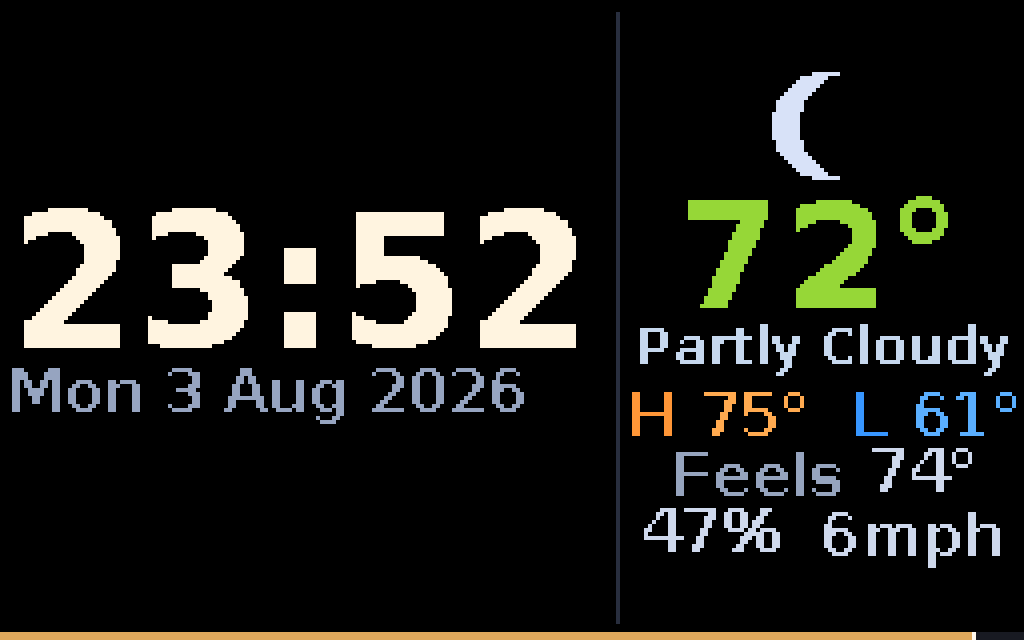
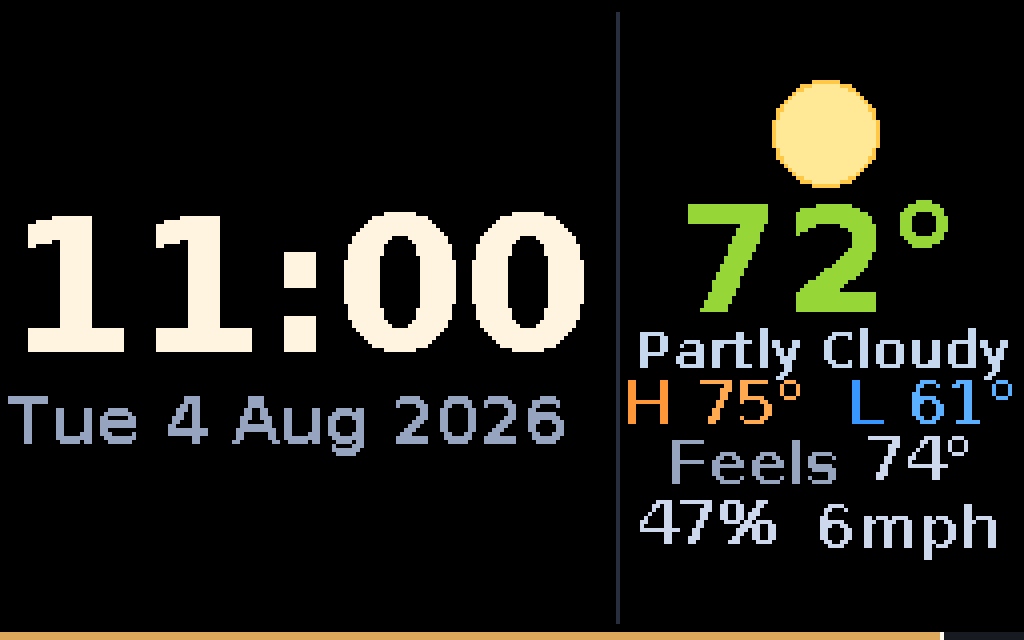
2.10.12-beta.10 — Weather & Dashboard convert to on-device ops (LCD)
Both redraw their tall-panel (H>=96) scene as ops instead of a pixel frame, gated on
canvas.can_gtext:
- weather: gradient sky + sun/moon disc + cloud puffs + rain/snow/lightning as
  gradient/circle/line/pixel ops; the info-panel scrim via canvas.blur; all text as gtext
  (city, big colored temp, condition, H/L, feels, humidity/wind, 3-cell forecast strip).
- dashboard: centered clock+date gtext group, divider line, weather column (sun/moon disc,
  warmth-ramped temp, "Partly Cloudy", H/L, feels, humidity/wind), seconds bar as rect ops.

~330-byte opsb batch, streams at ~1 ms/frame. LED renders byte-identical (verified 4x each).
Verified across day/night/clear/pcloudy/cloudy/rain via the offline gtext simulation; gallery
tiles regenerated. 4703 tests pass.

diff --git a/apps/weather/app.py b/apps/weather/app.py
@@ -722,6 +722,172 @@ def _cv_num(v, unit):
     return int(round(f))
 
 
+def _cv_weather_gtext(canvas, wx, unit, show_city, night, sky, frame):
+    """The weather sky scene as on-device ops + gtext instead of a pushed pixel frame: a dark
+    sky gradient, a warm sun (day) or crescent moon + colored stars (night), cloud-shaped puffs
+    and rain/snow, a blurred info-column scrim, then the same tall info column (city, big temp,
+    condition, H/L, feels, humidity/wind) over a bottom forecast strip. The ops twin of the
+    H>=96 PIL layout below — every position/size/color mirrors it, so it fills the 1280x800 LCD
+    wall at native resolution and previews at 256x160 the same way the pixel path does."""
+    import math
+    from datetime import datetime as _dt
+
+    W, H = canvas.width, canvas.height
+    deg = '\N{DEGREE SIGN}'
+
+    # --- the sky: a dark vertical gradient (a whisper of dusk-blue by day, deep navy by night)
+    # under the celestial scene — kept dark enough that the sun/moon/stars and the outlined info
+    # text read exactly as they do over the LED path's black panel.
+    if night:
+        top_sky, bot_sky = (8, 10, 22), (1, 2, 6)
+    else:
+        top_sky, bot_sky = (16, 26, 46), (3, 6, 12)
+    canvas.gradient(0, 0, W, H, top_sky, bot_sky, 'v')
+
+    def _sky_at(y):                                     # the gradient's own color at a row
+        r = max(0.0, min(1.0, y / max(1, H - 1)))
+        return tuple(int(top_sky[k] + (bot_sky[k] - top_sky[k]) * r) for k in range(3))
+
+    # --- celestial: a crisp sun (day) or moon + colored stars (night); same geometry as PIL ----
+    icx, icy, ir = W - int(H * 0.42) - 1, int(H * 0.40), max(4, int(H * 0.26))
+    if night:
+        stars = [(0.06, 0.18, (200, 210, 255)), (0.16, 0.42, (255, 240, 200)),
+                 (0.30, 0.12, (180, 220, 255)), (0.40, 0.55, (255, 220, 220)),
+                 (0.52, 0.24, (210, 235, 255)), (0.63, 0.10, (255, 245, 210))]
+        for i, (fx, fy, col) in enumerate(stars):
+            if (frame // 7 + i) % 4:
+                canvas.pixel(int(W * fx), int(H * fy), col)
+        if sky in ('clear', 'pcloudy'):
+            canvas.circle(icx, icy, ir, color=(232, 236, 250), fill=True)
+            # the crescent: an offset disc carves the shadow — the local sky tone (black on the
+            # LED's flat panel; the gradient's own color here) so the cut reads seamless
+            canvas.circle(icx + int(ir * 0.55), icy - int(ir * 0.2), ir,
+                          color=_sky_at(icy), fill=True)
+    else:
+        if sky in ('clear', 'pcloudy'):
+            canvas.circle(icx, icy, ir, color=(255, 210, 70), fill=True)
+            canvas.circle(icx, icy, max(1, ir - 2), color=(255, 226, 120), fill=True)
+
+    # --- clouds: one resting by the sun/moon, one drifting across — three overlapping discs ----
+    if sky in _CV_CLOUDY:
+        dark = sky in ('storm', 'hail')
+        cc = (70, 74, 88) if dark else (150, 156, 172)
+
+        def _puff(px, py, s):
+            for dx, dy, rr in ((0, 0, s), (int(s * 0.9), 4, int(s * 0.78)),
+                               (-int(s * 0.9), 3, int(s * 0.72))):
+                canvas.circle(int(px + dx), int(py + dy), max(2, rr), color=cc, fill=True)
+
+        _puff(icx - int(W * 0.1), icy, ir)                       # the cloud beside the sun/moon
+        cx = (frame * 0.4) % (W + ir * 6) - ir * 3               # a smaller cloud drifting across
+        _puff(cx, H * 0.28, max(3, int(ir * 0.62)))
+
+    # --- precipitation ----------------------------------------------------------
+    if sky in _CV_RAIN:
+        for i in range(_CV_RAIN[sky]):
+            x = (i * 53 + 7) % W
+            y = int(H * 0.30) + (frame * 3 + i * 11) % max(1, int(H * 0.7))
+            canvas.line(x, y, x - 1, min(H - 1, y + 3), color=(120, 170, 255))
+    elif sky in _CV_SNOW:
+        for i in range(_CV_SNOW[sky]):
+            x = (i * 41 + 5 + int(2 * math.sin(frame * 0.15 + i))) % W
+            y = int(H * 0.28) + (frame + i * 9) % max(1, int(H * 0.72))
+            canvas.pixel(x, y, (238, 244, 255))
+    if sky in ('storm', 'hail') and frame % 22 < 2:
+        bx = int(W * 0.3)
+        canvas.polyline([(bx, int(H * 0.3)), (bx - 3, int(H * 0.55)), (bx + 2, int(H * 0.55)),
+                         (bx - 2, int(H * 0.8))], color=(255, 255, 170))
+
+    # --- the info column + forecast strip, over a soft scrim (the on-device version of the PIL
+    # GaussianBlur darken). The scene must never crowd the text, so dim the info column + forecast
+    # strip toward the dark sky — the app "blacks out the info column", and an intruding cloud
+    # vanishes behind it — then a box blur feathers the dimmed panels into the bright scene.
+    pad = 4
+    left_w = int(W * 0.60)
+    strip_h = max(16, int(H * 0.13))
+    fy = H - strip_h                                    # the forecast strip's top
+    blur_r = max(2, int(H * 0.05))
+    dim_top = tuple(int(c * 0.45) for c in top_sky)
+    dim_bot = tuple(int(c * 0.45) for c in bot_sky)
+    canvas.gradient(0, 0, left_w, H, dim_top, dim_bot, 'v')             # dim the left info column
+    canvas.rect(0, fy - 2, W, H - (fy - 2), color=dim_bot, fill=True)   # dim the forecast strip
+    canvas.blur(0, 0, min(W, left_w + 2 * blur_r), fy - 2, blur_r)      # feather the column edge
+    sb = max(0, fy - 2 - 2 * blur_r)
+    canvas.blur(0, sb, W, H - sb, blur_r)                               # feather the strip edge
+    colw = left_w - 2 * pad
+
+    name_size = max(9, int(H * 0.095))
+    temp_size = max(16, int(H * 0.26))
+    cond_size = max(9, int(H * 0.11))
+    info_size = max(8, int(H * 0.085))
+
+    temp = _cv_num(wx.get('temp_f'), unit)
+    hi, lo = _cv_num(wx.get('hi_f'), unit), _cv_num(wx.get('lo_f'), unit)
+    word = _CV_SKY_WORD.get(sky, 'Weather')
+
+    y = pad
+    if show_city and wx.get('city'):
+        cs = str(wx['city'])
+        while cs and canvas.text_width(cs, name_size) > colw:
+            cs = cs[:-1]
+        if cs:
+            canvas.gtext(pad, y, cs, color=(216, 226, 244), size=name_size, outline=(0, 0, 0))
+    y += name_size + max(2, int(H * 0.015))
+
+    ts = f'{temp}{deg}' if temp is not None else '--'
+    canvas.gtext(pad, y, ts, color=(255, 255, 255) if temp is not None else (200, 200, 200),
+                 size=temp_size, outline=(0, 0, 0))
+    y += temp_size + max(1, int(H * 0.005))
+
+    canvas.gtext(pad, y, word[:16], color=(214, 226, 246), size=cond_size, outline=(0, 0, 0))
+    y += cond_size + max(3, int(H * 0.03))
+
+    step = info_size + max(3, int(H * 0.028))
+    if hi is not None or lo is not None:
+        x = pad
+        if hi is not None:
+            canvas.gtext(x, y, f'H {hi}{deg}', color=(255, 150, 55), size=info_size,
+                         outline=(0, 0, 0))
+            x += canvas.text_width(f'H {hi}{deg}', info_size) + max(8, int(W * 0.05))
+        if lo is not None:
+            canvas.gtext(x, y, f'L {lo}{deg}', color=(55, 150, 255), size=info_size,
+                         outline=(0, 0, 0))
+        y += step
+    feels = _cv_num(wx.get('feels_like_f'), unit)
+    if feels is not None:
+        canvas.gtext(pad, y, f'Feels {feels}{deg}', color=(198, 208, 228), size=info_size,
+                     outline=(0, 0, 0))
+        y += step
+    extra = []
+    if wx.get('humidity') is not None:
+        extra.append(f'Hum {int(wx["humidity"])}%')
+    if wx.get('wind_mph') is not None:
+        extra.append(f'Wind {int(wx["wind_mph"])}')
+    if extra:
+        canvas.gtext(pad, y, '   '.join(extra), color=(198, 208, 228), size=info_size,
+                     outline=(0, 0, 0))
+
+    # --- the forecast strip: one fitted cell per day, spread across the full width -------------
+    fc = wx.get('forecast') or []
+    if fc:
+        n = min(3, len(fc))
+        cw = W // n
+        strip_size = max(8, int(strip_h * 0.62))
+        for i, day in enumerate(fc[:n]):
+            dhi, dlo = _cv_num(day.get('hi_f'), unit), _cv_num(day.get('lo_f'), unit)
+            try:
+                lbl = _dt.strptime(str(day.get('date'))[:10], '%Y-%m-%d').strftime('%a')
+            except Exception:
+                lbl = str(day.get('day') or '')[:3].title()
+            fs = (f'{lbl} {dhi}{deg}/{dlo}{deg}' if (dhi is not None and dlo is not None)
+                  else (lbl or ''))
+            fsize = canvas.fit_gtext(fs, cw - 6, strip_size) if fs else strip_size
+            canvas.gtext(i * cw + pad, fy + max(1, (strip_h - fsize) // 2), fs,
+                         color=(206, 216, 234), size=fsize, outline=(0, 0, 0))
+
+    canvas.show()
+
+
 def fetch_canvas(settings, canvas, get_weather=None):
     import math
     from datetime import datetime
@@ -765,6 +931,15 @@ def fetch_canvas(settings, canvas, get_weather=None):
     sky = wx.get('sky') or 'cloudy'
 
     W, H = canvas.width, canvas.height
+
+    if getattr(canvas, "can_gtext", False) and H >= 96:
+        # A wall with scalable on-device text + box blur (the LCD): draw the whole sky scene as
+        # ops and the info column / forecast as gtext, instead of pushing a pixel frame — crisp at
+        # native resolution, a draw stream instead of megabytes a frame. Same animated scene and
+        # tall layout as the PIL H>=96 path below; the LED path (H<=64) never reaches this.
+        _cv_weather_gtext(canvas, wx, unit, show_city, night, sky, frame)
+        return 0.16
+
     large = W >= 192 and H >= 48                # a large panel gets the richer layout
     img = canvas.blank((0, 0, 0))               # black — bright weather elements read best on unlit pixels
     draw = ImageDraw.Draw(img)

diff --git a/apps/dashboard/app.py b/apps/dashboard/app.py
@@ -381,6 +381,154 @@ def _cv_fit_stack(canvas, specs, max_w, budget_h, gap):
     return lines
 
 
+def _cv_dash_weather_gtext(canvas, x, w, region_h, sky, tf, temp, hi, lo, feels,
+                           hum, wind_v, wind_u, night, deg, i18n):
+    """The weather column for the tall LCD, drawn with circle ops + gtext instead of pushed
+    pixels: a sun/moon disc header, the big temperature (colored by warmth), the FULL condition
+    ("Partly Cloudy"), then high/low, feels and humidity/wind — a centered vertical stack. The
+    ops twin of _draw_weather_tall; every size is a fraction of the region, so it fills the wall
+    at native resolution and previews at 256x160."""
+    cx = x + w // 2
+    gap = max(2, int(region_h * 0.03))
+    ir = max(5, int(region_h * 0.085))
+
+    ts = f'{temp}{deg}' if temp is not None else '--'
+    tcol = _cv_ramp(canvas, _TEMP_STOPS, float(tf)) if tf is not None else (232, 238, 246)
+    tsize = canvas.fit_gtext(ts, w, int(region_h * 0.24))
+
+    word = None
+    if sky:
+        word = _SKY_WORD_FULL.get(sky, 'Weather')
+        if i18n is not None:
+            word = i18n.t(word, 'weather')
+    csize = canvas.fit_gtext(word, w, int(region_h * 0.115)) if word else 0
+    dsize = canvas.fit_gtext('H 88  L 88', w, int(region_h * 0.10))
+
+    hl = []
+    if hi is not None:
+        hl += [('H ', _C_HI_L), (f'{hi}{deg}', _C_HI_V)]
+    if lo is not None:
+        hl += ([('  ', _C_SEP)] if hl else []) + [('L ', _C_LO_L), (f'{lo}{deg}', _C_LO_V)]
+    hw = []
+    if hum is not None:
+        hw += [(f'{hum}%', _C_MUTE_V)]
+    if wind_v is not None:
+        hw += ([('  ', _C_SEP)] if hw else []) + [(f'{wind_v}{wind_u}', _C_MUTE_V)]
+
+    # Build the row heights first (visual ink ~0.75*size) so the whole stack can be centered.
+    rows = [('icon', 2.0 * ir), ('temp', tsize * 0.75)]
+    if word:
+        rows.append(('cond', csize * 0.75))
+    if hl:
+        rows.append(('hl', dsize * 0.75))
+    if feels is not None:
+        rows.append(('feels', dsize * 0.75))
+    if hw:
+        rows.append(('hw', dsize * 0.75))
+
+    total = sum(h for _, h in rows) + gap * (len(rows) - 1)
+    if total > region_h - 2:                             # tighten if a rich day runs long
+        gap = max(1, gap - int((total - (region_h - 2)) / max(1, len(rows) - 1)))
+        total = sum(h for _, h in rows) + gap * (len(rows) - 1)
+    y = max(1.0, (region_h - total) / 2.0)               # visual top of the whole stack
+
+    def _center_segs(segs, size, yy):
+        tw = sum(canvas.text_width(s, size) for s, _ in segs)
+        lx = cx - tw / 2.0
+        for s, col in segs:
+            canvas.gtext(lx, yy - 0.20 * size, s, color=col, size=size)
+            lx += canvas.text_width(s, size)
+
+    for kind, h in rows:
+        if kind == 'icon':
+            icy = int(y + ir)
+            if night:
+                canvas.circle(cx, icy, ir, color=_C_MOON, fill=True)
+                o = max(1, int(ir * 0.55))
+                canvas.circle(cx + o, icy, ir, color=(0, 0, 0), fill=True)   # crescent cut
+            else:
+                canvas.circle(cx, icy, ir, color=_C_SUN, fill=True)
+                canvas.circle(cx, icy, max(1, ir - 1), color=_C_SUN_CORE, fill=True)
+        elif kind == 'temp':
+            canvas.gtext(cx, y - 0.20 * tsize, ts, color=tcol, size=tsize, align='center')
+        elif kind == 'cond':
+            canvas.gtext(cx, y - 0.20 * csize, word, color=_C_WORD, size=csize, align='center')
+        elif kind == 'hl':
+            _center_segs(hl, dsize, y)
+        elif kind == 'feels':
+            _center_segs([('Feels ', _C_MUTE), (f'{feels}{deg}', _C_MUTE_V)], dsize, y)
+        elif kind == 'hw':
+            _center_segs(hw, dsize, y)
+        y += h + gap
+
+
+def _cv_dashboard_gtext(canvas, now, clock, night, sky, tf, temp, hi, lo, feels,
+                        hum, wind_v, wind_u, have_wx, deg, i18n):
+    """The overview card as on-device ops + gtext instead of a pushed pixel frame: the big clock
+    over its date as a centered group on the left, a divider line, and the weather column on the
+    right, with the seconds bar sweeping the bottom. The ops twin of the tall (H>=96) PIL layout
+    below — same regions, sizes and colors — so it fills the 1280x800 LCD wall at native
+    resolution and previews at 256x160."""
+    W, H = canvas.width, canvas.height
+    canvas.clear((0, 0, 0))
+
+    pad = 2 if W >= 96 else 1
+    sb_h = 2 if H >= 48 else (1 if H >= 40 else 0)
+    region_h = H - sb_h
+
+    two_col = have_wx and W >= 112
+    rx = (W - min(max(46, int(W * 0.40)), W - 58)) if two_col else W
+    Lw = rx - 2 * pad
+
+    # --- LEFT: the big clock over its date, centered as a group ------------------
+    clock_size = canvas.fit_gtext(clock, Lw, int(H * 0.52))
+    if i18n is not None:
+        wd, mo = str(i18n.weekday(now, short=True)), str(i18n.month(now, short=True))
+    else:
+        wd, mo = _WEEKDAY[now.weekday()], _MONTH[now.month - 1]
+    if Lw >= 150:
+        date_cands = [f'{wd} {now.day} {mo} {now.year}', f'{wd} {now.day} {mo}',
+                      f'{wd} {now.day}', wd]
+    else:
+        date_cands = [f'{wd} {now.day} {mo}', f'{wd} {now.day}', f'{now.day} {mo}', wd]
+    date_cap = max(9, min(int(H * 0.15), 22))
+    dfloor = max(8, int(date_cap * 0.6))
+    date_str, date_size = date_cands[-1], dfloor
+    for cand in date_cands:                              # the richest date that fits, then a floor
+        ds = canvas.fit_gtext(cand, Lw, date_cap, lo=dfloor)
+        if canvas.text_width(cand, ds) <= Lw:
+            date_str, date_size = cand, ds
+            break
+
+    cgap = max(2, int(H * 0.035))
+    total = clock_size + cgap + date_size
+    gy = max(1, (region_h - total) // 2)
+    canvas.gtext(pad, gy, clock, color=_C_CLOCK, size=clock_size)
+    gy += clock_size + cgap
+    canvas.gtext(pad, gy, date_str, color=_C_DATE, size=date_size)
+
+    # --- RIGHT: the divider + the weather stack --------------------------------
+    if two_col:
+        canvas.line(rx, 3, rx, region_h - 3, color=_C_DIV)
+        wx0 = rx + pad + 2
+        wxw = max(8, W - pad - wx0)
+        _cv_dash_weather_gtext(canvas, wx0, wxw, region_h, sky, tf, temp, hi, lo, feels,
+                               hum, wind_v, wind_u, night, deg, i18n)
+
+    # --- the seconds bar sweeping the bottom edge ------------------------------
+    if sb_h:
+        frac = (now.second + now.microsecond / 1_000_000.0) / 60.0
+        by = H - sb_h
+        canvas.rect(0, by, W, sb_h, color=_C_SB_TRK, fill=True)
+        fw = int(round(W * frac))
+        if fw > 0:
+            canvas.rect(0, by, fw, sb_h, color=_C_SB_FIL, fill=True)
+        if 0 <= fw < W:
+            canvas.rect(fw, by, 1, sb_h, color=_C_SB_HEAD, fill=True)
+
+    canvas.show()
+
+
 def fetch_canvas(settings, canvas, get_weather=None, i18n=None):
     from datetime import datetime
     from PIL import Image, ImageDraw
@@ -431,6 +579,16 @@ def fetch_canvas(settings, canvas, get_weather=None, i18n=None):
 
     # --- panel + regions -------------------------------------------------------
     W, H = canvas.width, canvas.height
+
+    if getattr(canvas, "can_gtext", False) and H >= 96:
+        # A wall with scalable on-device text (the LCD): draw the clock/date, the weather column
+        # and the seconds bar as ops + gtext instead of a pixel frame — crisp at native
+        # resolution, a draw stream instead of megabytes a frame. Same tall layout as the PIL
+        # H>=96 path below; the LED path (H<=64) never reaches this.
+        _cv_dashboard_gtext(canvas, now, clock, night, sky, tf, temp, hi, lo, feels,
+                            hum, wind_v, wind_u, have_wx, deg, i18n)
+        return 0.5
+
     img = canvas.blank((0, 0, 0))
     draw = ImageDraw.Draw(img)
     draw.fontmode = "1"                          # crisp 1-bit text — no AA fuzz

diff --git a/addon-beta/CHANGELOG.md b/addon-beta/CHANGELOG.md
@@ -3,6 +3,13 @@
 Home Assistant shows this when an update is available. Newest first; the version headings
 have to match the add-on's `version`, or the update notice comes up blank.
 
+## 2.10.12-beta.10
+
+- **Weather & Dashboard draw on-device now (LCD)** — both redraw their whole tall-panel scene
+  as ops: the sky (gradient + sun/moon disc + clouds + rain/snow), the text as scalable `gtext`,
+  and the info-panel scrim via the on-device `blur` op — crisp at 1280×800, a few hundred bytes a
+  frame over the stream, instead of an animated pixel frame. LED walls unchanged.
+
 ## 2.10.12-beta.9
 
 - **17 more apps draw as on-device text on the LCD** — the clocks and counters (Date, Countdown,
